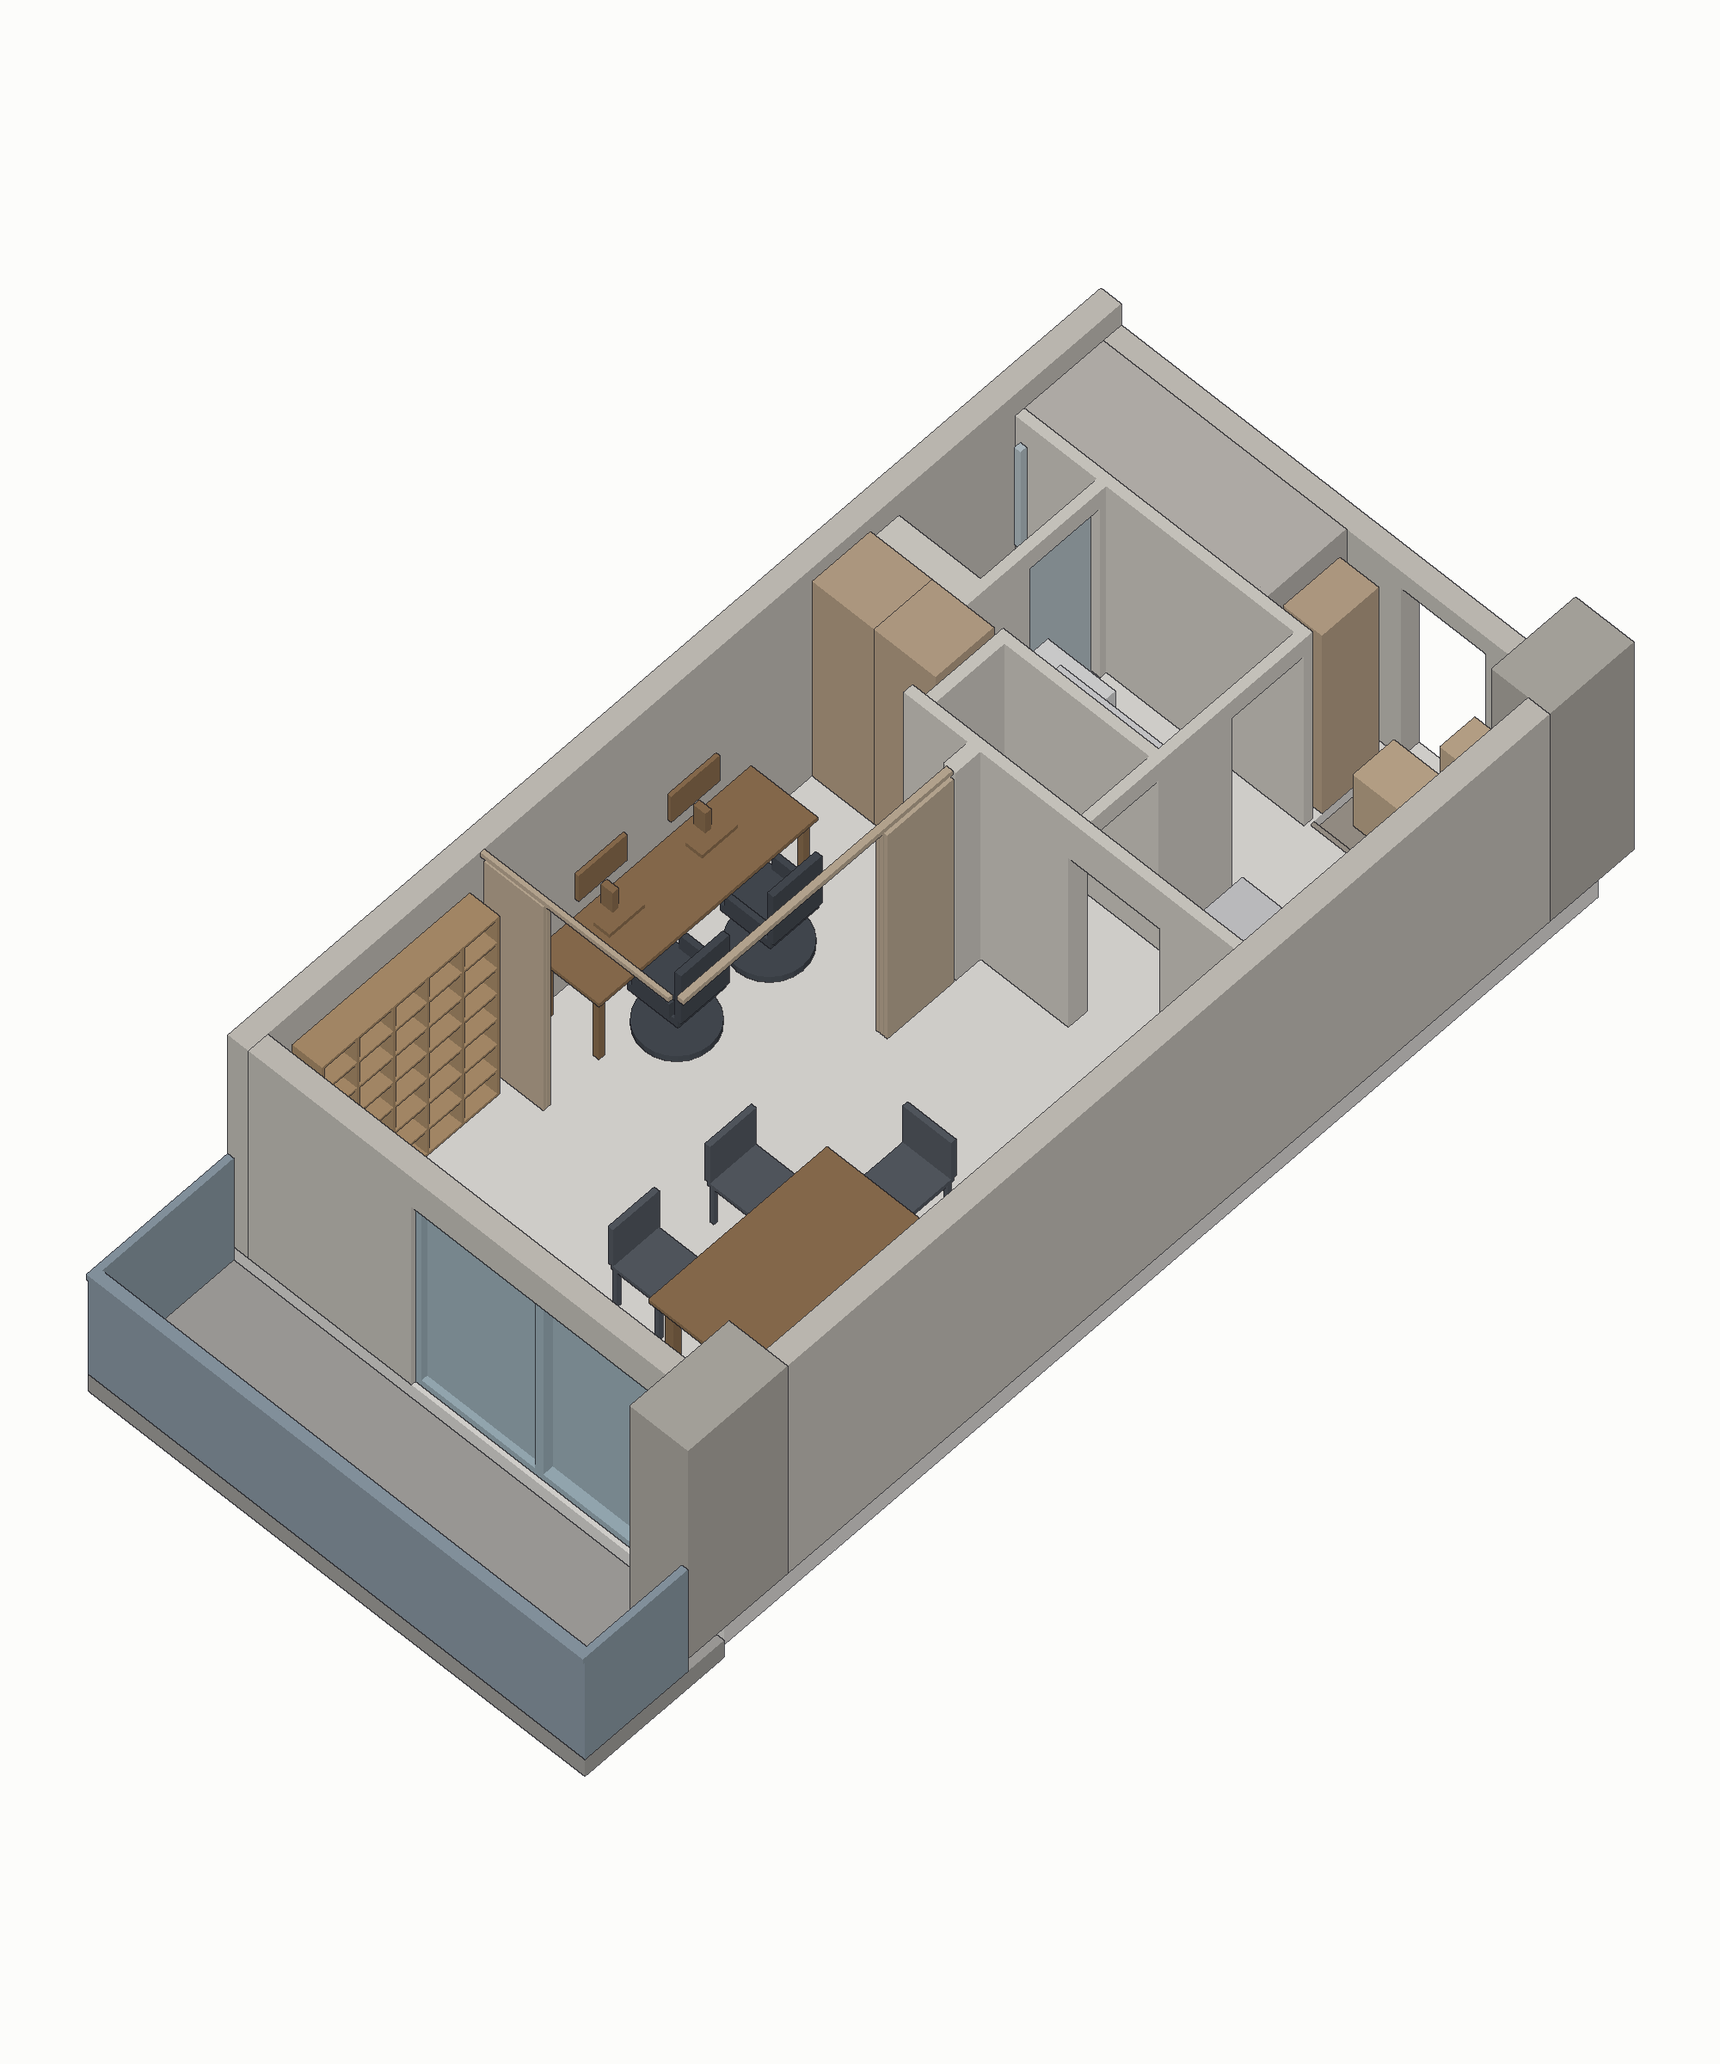
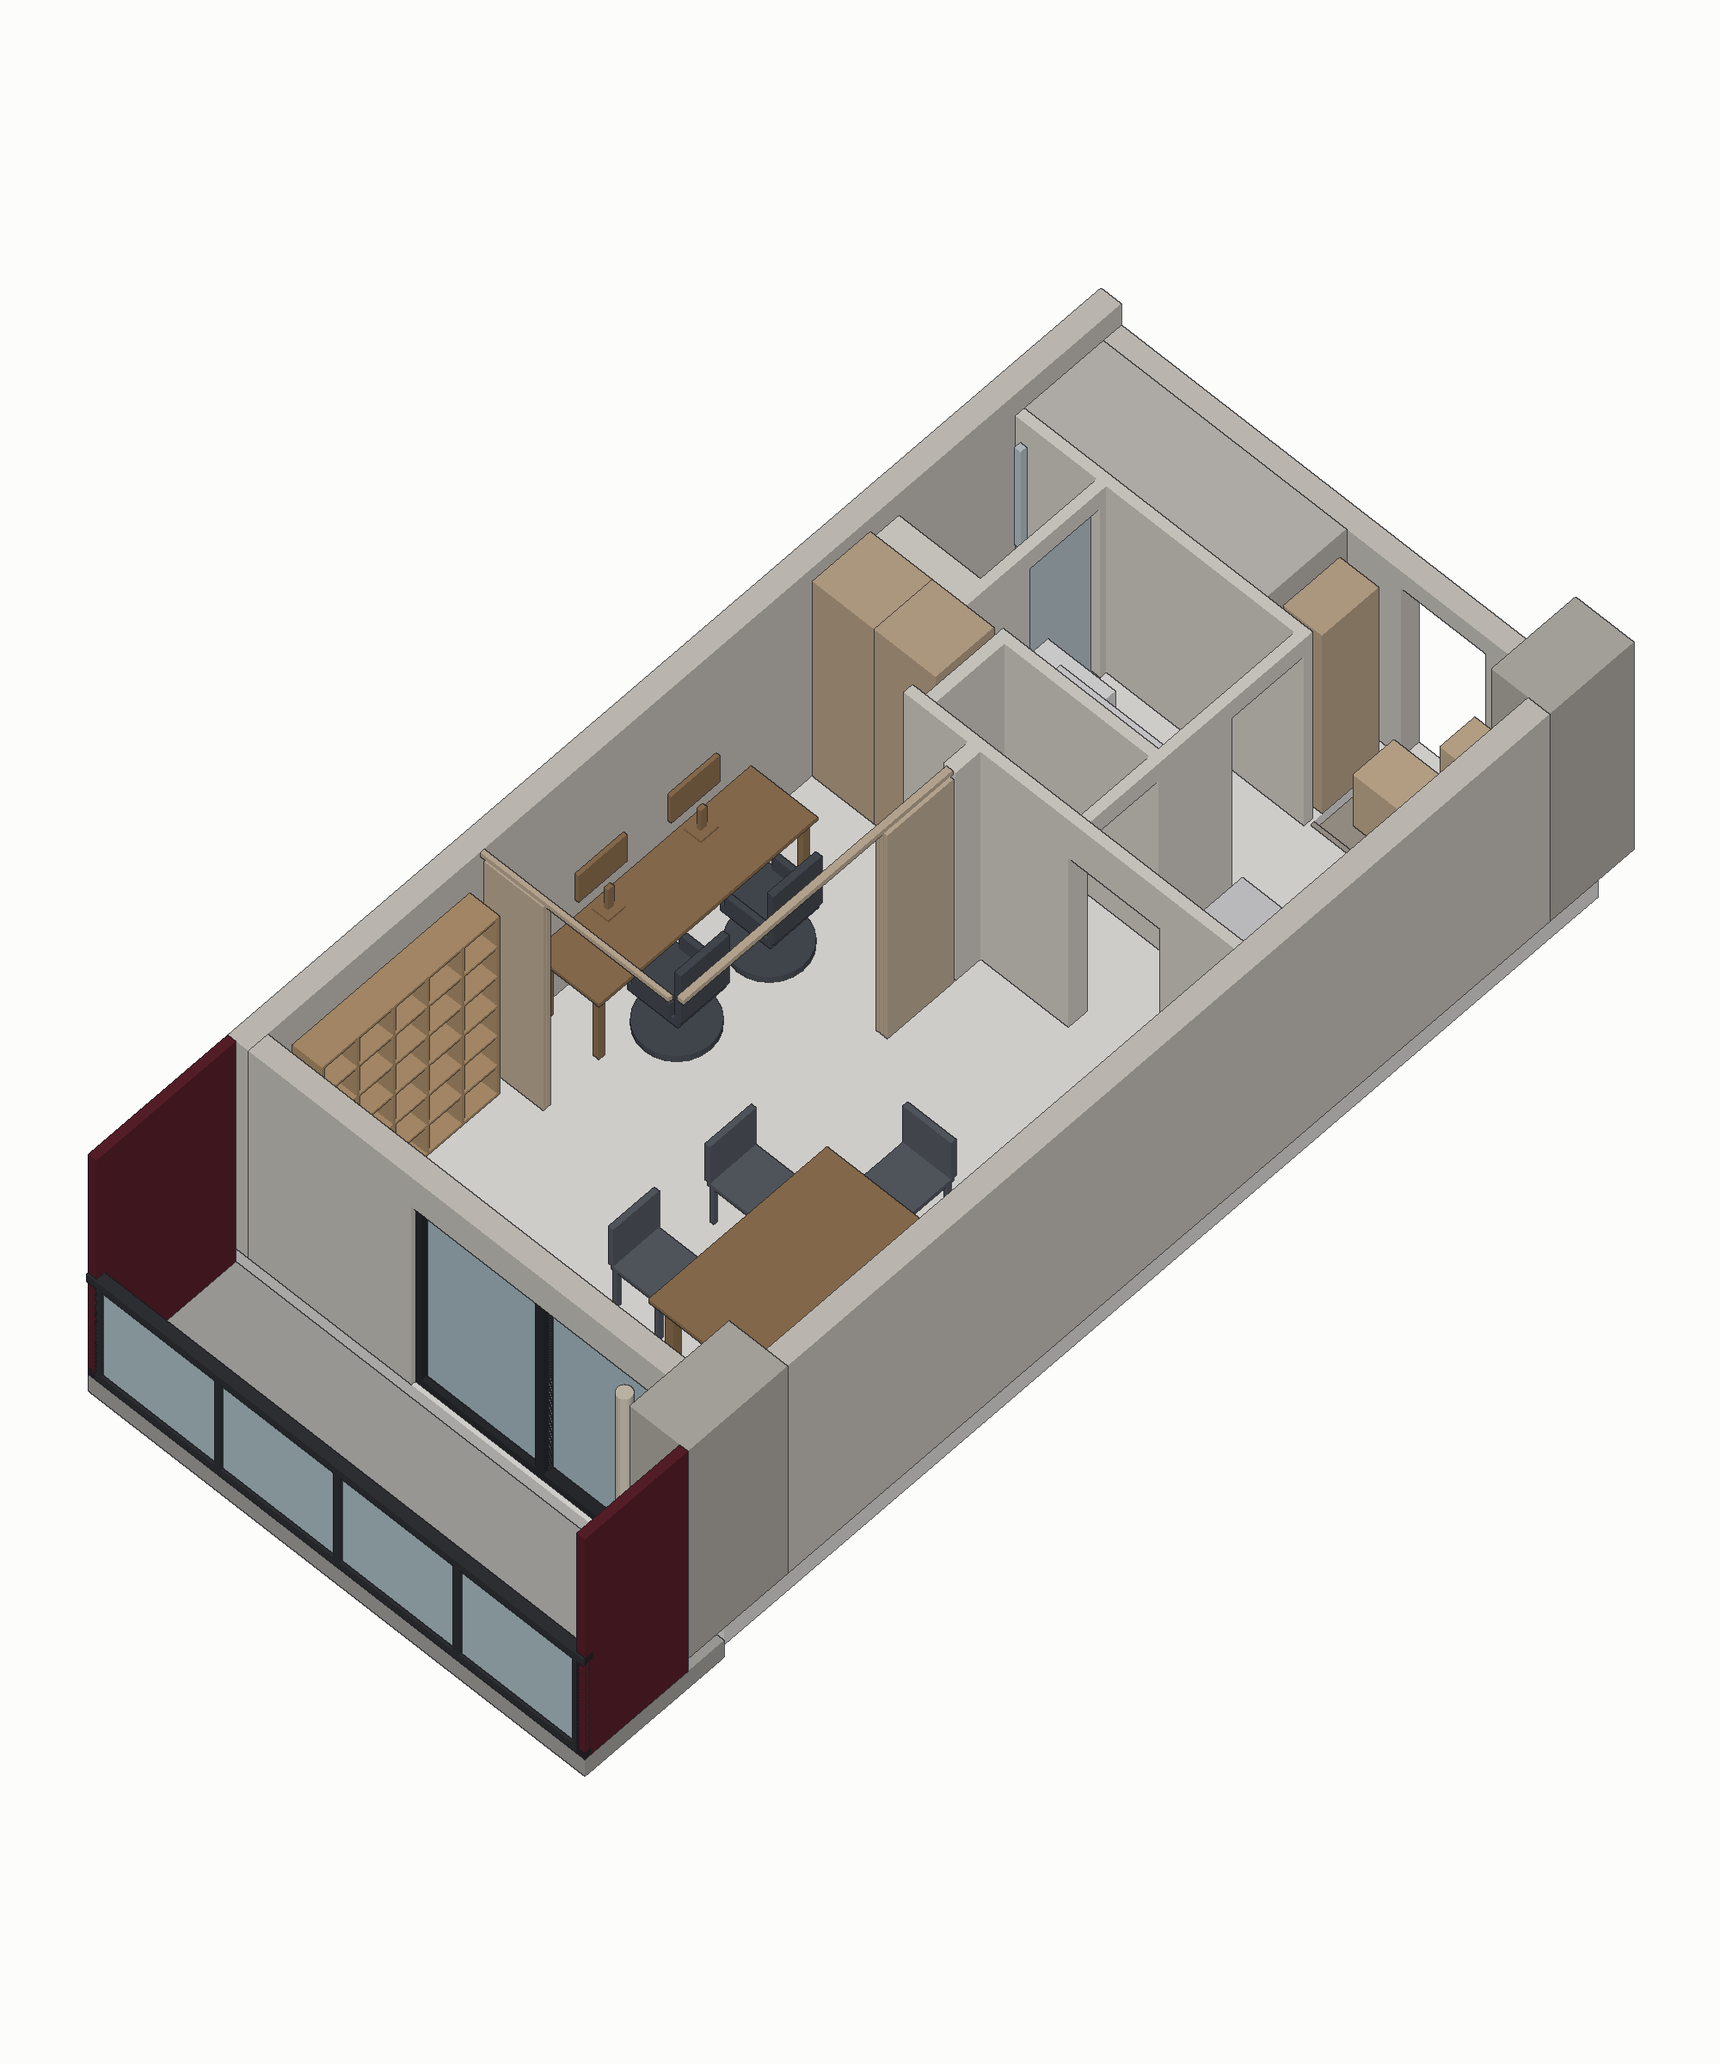
Correct the window and balcony against the completion photos
The KEN photo sheet settles several things the plan could not. No XY
moved; this is what the elements actually look like.

Window: the sash frame is dark charcoal aluminium, not the pale silver
the model had. The photos confirm what was already modelled - two
sliding leaves, full-height, head meeting the drop beam at 2100 - and
frame and glass are now separate objects so the photoreal stage can
give them different materials.

Balcony: the railing is clear glass in a dark frame with evenly spaced
mullions, so the single pale panel becomes a bottom rail, coping, five
mullions and glass. The end partitions are full-height dark maroon
panels carrying the escape-route notice, not the 1050-high pale boards
that were there. A cream round downpipe stands just east of the window
in three of the photos and is now modelled. A soffit slab is added for
the interior cameras and excluded from views A and B like the ceiling.

One thing turned up alongside: the same living-room photo shows the
existing book shelf clearly as 5 bays by 6 tiers. The bay count already
matched the plan's four dividers, but the model had 7 tiers, so it is
now 6. Its footprint and height are untouched.

Object count goes 36 to 42, all of it splitting existing elements apart
or adding the downpipe and soffit. The 24 requested categories are
unchanged.

Claude-Session: https://claude.ai/code/session_01PLD8dd8RCVBaEMiq9C1GPw

diff --git a/soho1415/geometry_master.py b/soho1415/geometry_master.py
@@ -286,9 +286,9 @@ def parts():
     """
     P = []
 
-    def add(obj, group, boxes, cylinders=None):
+    def add(obj, group, boxes, cylinders=None, color=None):
         P.append(dict(object=obj, group=group, boxes=list(boxes),
-                      cylinders=list(cylinders or [])))
+                      cylinders=list(cylinders or []), color=color))
 
     # -----------------------------------------------------------------
     # 外周壁  EXTERIOR WALLS
@@ -428,7 +428,7 @@ def parts():
           _b(bs["x0"], bs["x1"], bs["y0"], bs["y1"], bs["z1"] - 25, bs["z1"])]  # 天板
     for yd in bs["dividers_y"]:                                            # 方立
         bx.append(_b(bs["x0"], bs["x1"], yd - 12, yd + 12, FL, bs["z1"]))
-    n_shelf = 6
+    n_shelf = 5          # 竣工写真より 6 段 (棚板 5 枚)
     for i in range(1, n_shelf + 1):                                        # 棚板
         z = bs["z1"] * i / (n_shelf + 1)
         bx.append(_b(bs["x0"], bs["x1"], bs["y0"], bs["y1"], z - 10, z + 10))
@@ -470,14 +470,18 @@ def parts():
     # -----------------------------------------------------------------
     w0, w1 = OPEN_WINDOW
     wm = (w0 + w1) / 2.0
+    # 竣工写真より: ダークチャコールのアルミサッシ / 2 枚引違いの掃き出し窓
     add("WINDOW_SASH", "窓／サッシ",
-        [_b(w0, w1, Y_OUT_S + 40, Y_IN_S - 40, FL, FL + 70),        # 下枠
+        [_b(w0, w1, Y_OUT_S + 40, Y_IN_S - 40, FL, FL + 70),              # 下枠
          _b(w0, w1, Y_OUT_S + 40, Y_IN_S - 40, WIN_HEAD - 70, WIN_HEAD),  # 上枠
-         _b(w0, w0 + 60, Y_OUT_S + 40, Y_IN_S - 40, FL, WIN_HEAD),  # 縦枠 西
-         _b(w1 - 60, w1, Y_OUT_S + 40, Y_IN_S - 40, FL, WIN_HEAD),  # 縦枠 東
-         _b(wm - 40, wm + 40, Y_OUT_S + 40, Y_IN_S - 40, FL, WIN_HEAD),   # 召し合せ
-         _b(w0 + 60, wm + 40, 95, 125, FL + 70, WIN_HEAD - 70),     # ガラス 西
-         _b(wm - 40, w1 - 60, 135, 165, FL + 70, WIN_HEAD - 70)])   # ガラス 東
+         _b(w0, w0 + 60, Y_OUT_S + 40, Y_IN_S - 40, FL, WIN_HEAD),        # 縦枠 西
+         _b(w1 - 60, w1, Y_OUT_S + 40, Y_IN_S - 40, FL, WIN_HEAD),        # 縦枠 東
+         _b(wm - 40, wm + 40, Y_OUT_S + 40, Y_IN_S - 40, FL, WIN_HEAD)],  # 召し合せ
+        color=(44, 46, 50))
+    add("WINDOW_GLASS", "窓／サッシ",
+        [_b(w0 + 60, wm + 40, 95, 125, FL + 70, WIN_HEAD - 70),           # ガラス 西
+         _b(wm - 40, w1 - 60, 135, 165, FL + 70, WIN_HEAD - 70)],         # ガラス 東
+        color=(176, 198, 206))
 
     # -----------------------------------------------------------------
     # バルコニー床
@@ -486,13 +490,37 @@ def parts():
         [_b(X_OUT_W, X_OUT_E, BAL_Y_OUT, Y_OUT_S, BAL_FL - 200, BAL_FL)])
 
     # -----------------------------------------------------------------
-    # バルコニー手摺  (ガラス手摺 + 笠木 + 隔て板)
+    # バルコニー手摺  (竣工写真: クリアガラス + ダークチャコール枠 + 方立)
     # -----------------------------------------------------------------
-    add("BALCONY_RAILING", "バルコニー手摺",
-        [_b(X_OUT_W, X_OUT_E, BAL_Y_OUT, BAL_Y_OUT + 60, BAL_FL, BAL_RAIL_TOP - 60),   # ガラス
-         _b(X_OUT_W, X_OUT_E, BAL_Y_OUT - 20, BAL_Y_OUT + 80, BAL_RAIL_TOP - 60, BAL_RAIL_TOP),  # 笠木
-         _b(X_OUT_W, X_OUT_W + 60, BAL_Y_OUT, Y_OUT_S, BAL_FL, BAL_RAIL_TOP),          # 隔て板 西
-         _b(X_OUT_E - 60, X_OUT_E, BAL_Y_OUT + 60, -360, BAL_FL, BAL_RAIL_TOP)])            # 隔て板 東
+    ry = BAL_Y_OUT
+    rail = [_b(X_OUT_W, X_OUT_E, ry, ry + 60, BAL_FL, BAL_FL + 80),          # 下枠
+            _b(X_OUT_W, X_OUT_E, ry - 20, ry + 80, BAL_RAIL_TOP - 80,
+               BAL_RAIL_TOP)]                                                # 笠木
+    for i in range(5):                                                       # 方立
+        px = X_OUT_W + 60 + i * (X_OUT_E - X_OUT_W - 180) / 4.0
+        rail.append(_b(px, px + 60, ry, ry + 60, BAL_FL, BAL_RAIL_TOP - 80))
+    add("BALCONY_RAILING", "バルコニー手摺", rail, color=(52, 54, 58))
+    add("BALCONY_GLASS", "バルコニー手摺",
+        [_b(X_OUT_W, X_OUT_E, ry + 24, ry + 36, BAL_FL + 80, BAL_RAIL_TOP - 80)],
+        color=(186, 206, 214))
+
+    # 隔て板 : 竣工写真では濃いマルーンの全高パネル
+    add("BALCONY_PARTITION_W", "バルコニー手摺",
+        [_b(X_OUT_W, X_OUT_W + 80, ry, Y_OUT_S, BAL_FL, CH_MAIN)],
+        color=(96, 34, 46))
+    add("BALCONY_PARTITION_E", "バルコニー手摺",
+        [_b(X_OUT_E - 80, X_OUT_E, ry, -360, BAL_FL, CH_MAIN)],
+        color=(96, 34, 46))
+
+    # 竪樋 : 竣工写真で窓東側に見えるクリーム色の丸樋
+    add("BALCONY_DOWNPIPE", "バルコニー床", [],
+        [dict(r=65, z0=BAL_FL, z1=CH_MAIN, cx=4040, cy=-300)],
+        color=(214, 206, 188))
+
+    # バルコニー軒天 (上階スラブ下面) -- 検証レンダ A/B では非表示
+    add("BALCONY_SOFFIT", "バルコニー床",
+        [_b(X_OUT_W, X_OUT_E, ry, Y_OUT_S, CH_MAIN, SLAB_TOP)],
+        color=(232, 230, 226))
 
     # -----------------------------------------------------------------
     # 床 / 天井  (Z のみの補助オブジェクト)
@@ -520,9 +548,9 @@ def parts():
     for k in ("DESK_MON_N", "DESK_MON_S"):
         m = F[k]
         cy, w = m["cy"], m["w"]
-        desk.append(_b(d["x0"] + 145, d["x1"] - 330, cy - 178, cy + 178, 740, 780))   # スタンド台
-        desk.append(_b(d["x0"] + 190, d["x1"] - 555, cy - 30, cy + 30, 780, 1010))    # 支柱
-        desk.append(_b(d["x0"] + 31, d["x0"] + 68, cy - w / 2, cy + w / 2, 1010, 1310))  # 画面
+        desk.append(_b(d["x0"] + 45, d["x0"] + 205, cy - 90, cy + 90, 740, 765))     # スタンド台
+        desk.append(_b(d["x0"] + 105, d["x0"] + 145, cy - 30, cy + 30, 765, 1000))   # 支柱
+        desk.append(_b(d["x0"] + 31, d["x0"] + 68, cy - w / 2, cy + w / 2, 1000, 1310))  # 画面
     add("DESK_2P", "2人用ワークデスク", desk)
 
     for k in ("TASK_CHAIR_1", "TASK_CHAIR_2"):

diff --git a/soho1415/render_validation.py b/soho1415/render_validation.py
@@ -57,7 +57,7 @@ def collect(exclude=()):
 
 
 def view_a():
-    tris, rgb, oid, _ = collect(exclude=("CEILING",))
+    tris, rgb, oid, _ = collect(exclude=("CEILING", "BALCONY_SOFFIT"))
     img, _ = softrender.render(
         tris, rgb, oid,
         eye_dir=(0.40, -0.42, 0.815),     # 平面図と同じ向き(北が上)を保った俯瞰アクソメ
@@ -69,7 +69,7 @@ def view_a():
 
 
 def view_b(px_per_mm=0.31):
-    tris, rgb, oid, _ = collect(exclude=("CEILING",))
+    tris, rgb, oid, _ = collect(exclude=("CEILING", "BALCONY_SOFFIT"))
     cx = (GM.X_OUT_W + GM.X_OUT_E) / 2.0
     cy = (GM.BAL_Y_OUT + GM.Y_OUT_N) / 2.0
     w = int(round((GM.X_OUT_E - GM.X_OUT_W + 900) * px_per_mm))
@@ -86,7 +86,7 @@ def view_b(px_per_mm=0.31):
 
 def view_b_walls(px_per_mm):
     """重ね合わせ用: 床スラブを除いた立ち上がり部材のみの真上投影."""
-    tris, rgb, oid, _ = collect(exclude=("CEILING", "FLOOR_SLAB", "BALCONY_SLAB"))
+    tris, rgb, oid, _ = collect(exclude=("CEILING", "BALCONY_SOFFIT", "FLOOR_SLAB", "BALCONY_SLAB"))
     cx = (GM.X_OUT_W + GM.X_OUT_E) / 2.0
     cy = (GM.BAL_Y_OUT + GM.Y_OUT_N) / 2.0
     w = int(round((GM.X_OUT_E - GM.X_OUT_W + 900) * px_per_mm))

diff --git a/soho1415/build_model.py b/soho1415/build_model.py
@@ -74,7 +74,7 @@ def build():
         if not pieces:
             continue
         mesh = trimesh.util.concatenate(pieces)
-        rgb = GROUP_COLOR.get(p["group"], (200, 200, 200))
+        rgb = p.get("color") or GROUP_COLOR.get(p["group"], (200, 200, 200))
         mesh.visual.face_colors = np.tile(np.array(rgb + (255,), np.uint8),
                                           (len(mesh.faces), 1))
         mesh.metadata["group"] = p["group"]

diff --git a/soho1415/README.md b/soho1415/README.md
@@ -161,15 +161,52 @@ v = (904 - py) / 828  ->  Y_mm = v * 8675
 
 ---
 
-## オブジェクト（36個・すべて独立）
+## 窓・バルコニー — 竣工写真により修正
+
+KEN物件資料の竣工写真（居室3枚・バルコニー3枚・眺望1枚）から実態を確認し、
+以下を修正した。**XY座標の変更はない。**
+
+### 窓／サッシ
+
+| 項目 | 写真からの確認 | 対応 |
+|---|---|---|
+| 枠色 | **ダークチャコールのアルミ** | 淡いシルバーから変更 |
+| 形式 | 2枚引違いの**掃き出し窓** | 既存モデルどおり（追認） |
+| 上端 | 垂れ壁の下端に一致 | WIN_HEAD 2100 + 垂れ壁（追認） |
+| 構成 | 枠とガラスを別オブジェクトに分離 | `WINDOW_SASH` / `WINDOW_GLASS` |
+
+### バルコニー
+
+| 項目 | 写真からの確認 | 対応 |
+|---|---|---|
+| 手摺 | **クリアガラス＋濃色フレーム**、方立が等間隔に立つ | 単一パネルから、下枠・笠木・方立5本＋ガラスに分解 |
+| 隔て板 | **濃いマルーンの全高パネル**（避難表示板付き） | 高さ1050の淡色板 → FL〜2450の全高マルーン |
+| 竪樋 | 窓の東側に**クリーム色の丸樋**（3枚の写真に写る） | φ130の竪樋を追加（X4040 / Y−300） |
+| 軒天 | 上階スラブ下面 | `BALCONY_SOFFIT` を追加（検証レンダA/Bでは非表示） |
+| 床 | ライトグレーの長尺シート | 仕上げ区分に記録 |
+
+### 併せて見つかった1点 — Book Shelf の段数
+
+同じ居室写真で既存Book Shelfが明瞭に写っており、**5スパン × 6段**である。
+スパン数は平面図実測（方立4本＝5スパン）と一致していたが、段数を7段で
+モデル化していたため**6段（棚板5枚）に修正**した。
+外形 X205–490 / Y425–2190 / H2100 は変更していない（大型化・延長なし）。
+
+オブジェクトは36→42に増えたが、追加はすべて既存要素の分解
+（枠とガラスの分離・手摺の部材分解）と、写真で確認した竪樋・軒天である。
+指定24カテゴリの構成は変わっていない。
+
+---
+
+## オブジェクト（42個・すべて独立）
 
 | 指定要素 | オブジェクト名 |
 |---|---|
 | 外周壁 | `WALL_EXT_WEST` `WALL_EXT_EAST` `WALL_EXT_NORTH` `WALL_EXT_SOUTH` |
 | 内壁 | `WALL_INT` |
 | 柱 | `COLUMN_SE` `COLUMN_NE` |
-| バルコニー床 | `BALCONY_SLAB` |
-| バルコニー手摺 | `BALCONY_RAILING` |
+| バルコニー床 | `BALCONY_SLAB` `BALCONY_SOFFIT` `BALCONY_DOWNPIPE` |
+| バルコニー手摺 | `BALCONY_RAILING` `BALCONY_GLASS` `BALCONY_PARTITION_W` `BALCONY_PARTITION_E` |
 | 玄関 | `ENTRANCE` |
 | PS | `PS` |
 | SC | `SC` |
@@ -182,7 +219,7 @@ v = (904 - py) / 828  ->  Y_mm = v * 8675
 | Closet | `CLOSET_1` `CLOSET_2` |
 | 既存Book Shelf | `BOOK_SHELF_EXISTING` |
 | 可動収納壁／レール | `MOVABLE_WALL`（**L字・常時開放** — 下記） |
-| 窓／サッシ | `WINDOW_SASH` |
+| 窓／サッシ | `WINDOW_SASH` `WINDOW_GLASS` |
 | 2人用ワークデスク | `DESK_2P` |
 | 執務チェア2脚 | `TASK_CHAIR_1` `TASK_CHAIR_2` |
 | 6人用ミーティングテーブル | `MEETING_TABLE` |
